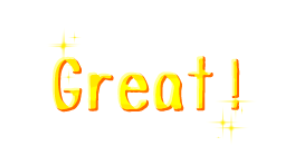
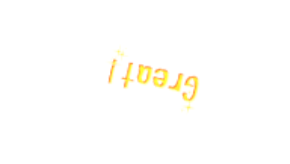
Greatのエフェクトを変更

Changed region(s): [[0.1552, 0.1829, 0.7448, 0.7012], [0.7448, 0.3354, 0.869, 0.7012], [0.7138, 0.6707, 0.8379, 0.8537]]

diff --git a/VanishingSong/VanishingSong/OrderList.cpp b/VanishingSong/VanishingSong/OrderList.cpp
@@ -231,7 +231,7 @@ void OrderList::mInitialize(GameManager::eGameMode mode,GameManager::eBattleStat
 	m_pEffect->mLoadEffect(6, "In", "Effect\\InCommand\\");
 	m_pEffect->mLoadEffect(17, "Miss", "Effect\\Miss\\");
 	m_pEffect->mLoadEffect(17, "Good", "Effect\\Good\\");
-	m_pEffect->mLoadEffect(17, "Great", "Effect\\Great\\");
+	m_pEffect->mLoadEffect(23, "Great", "Effect\\Great\\");
 
 
 	m_effectTrans = Transform(Vector3(), Vector3(), Vector3( 16*10, 9*10,0));
